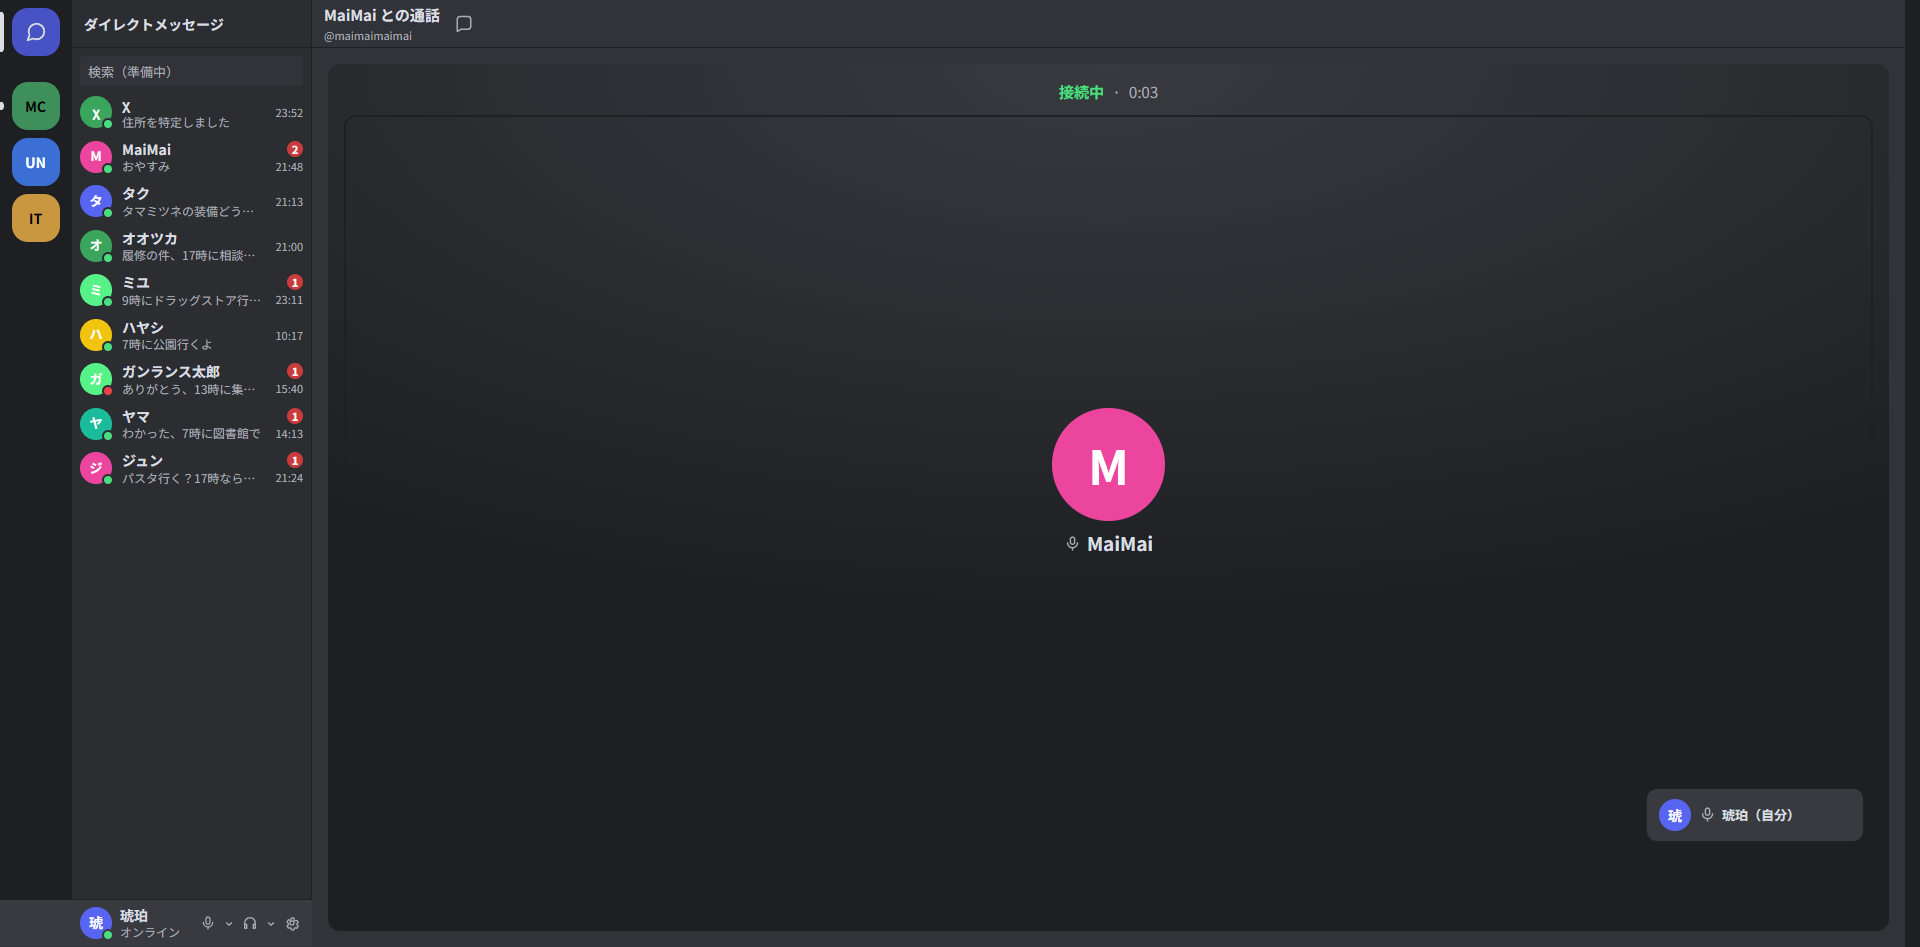
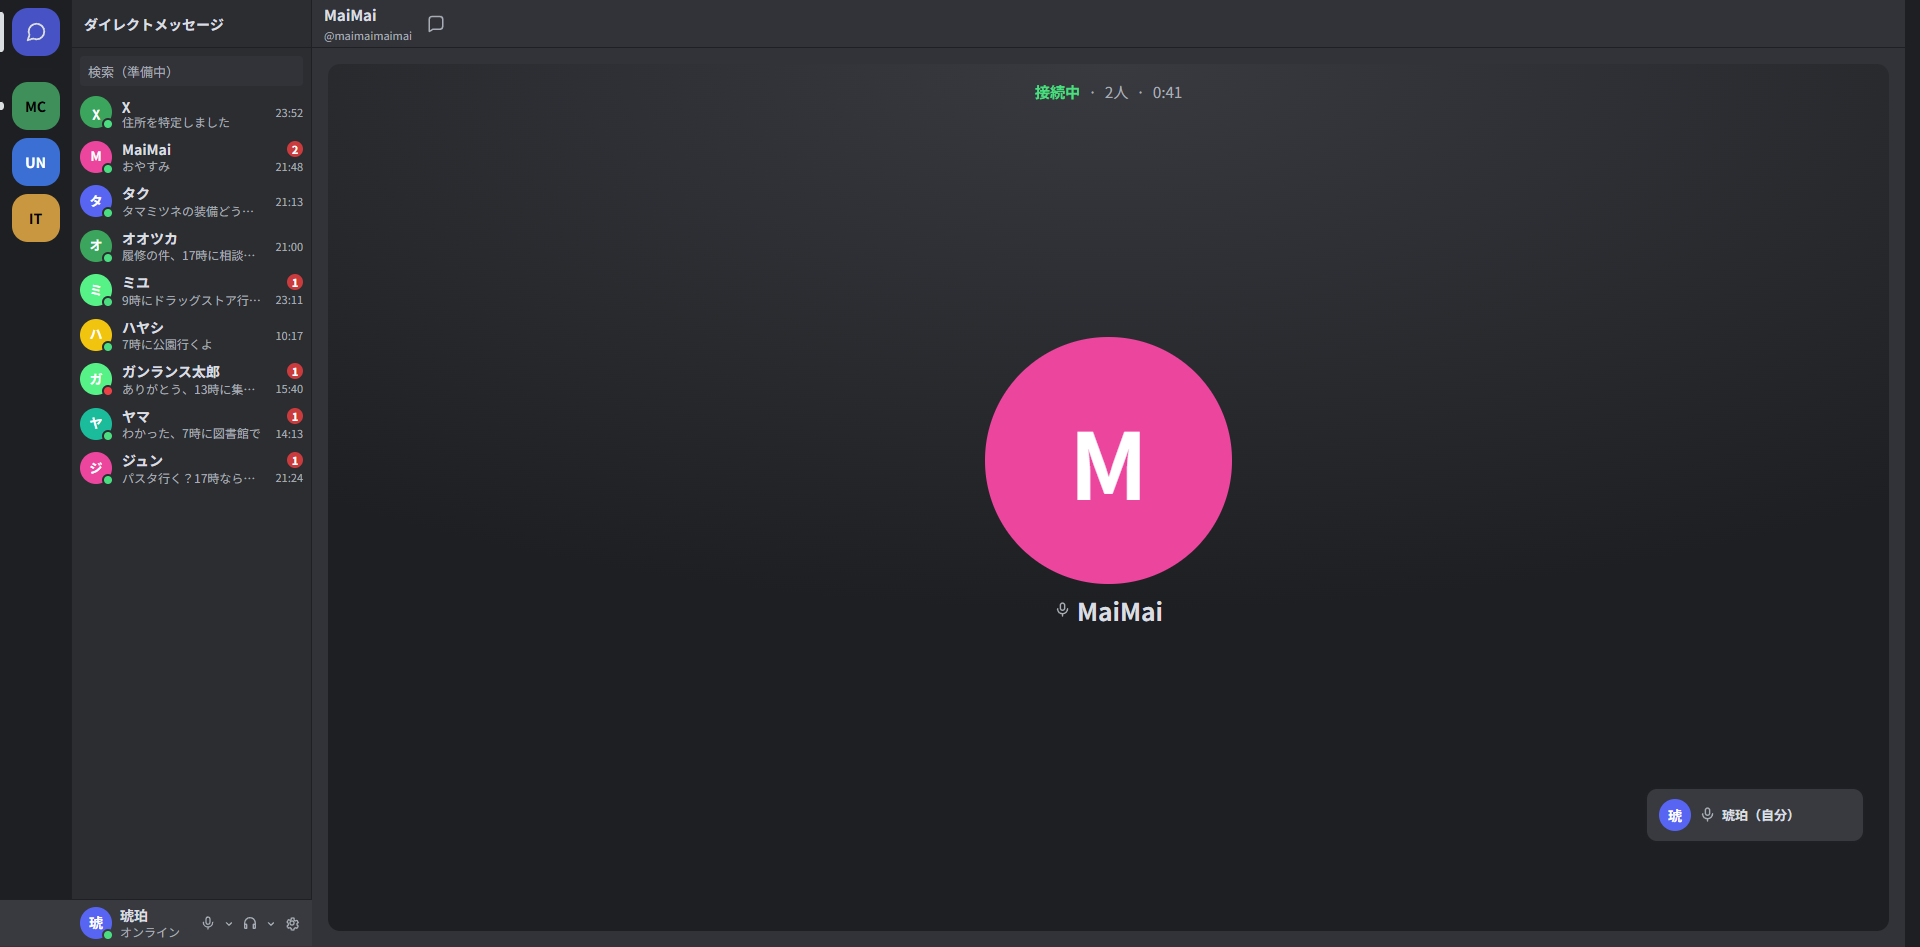
fix(voice): VC3人のグリッド・DMアバター・発話枠・左リスト・/call警告を直す
- 3人は同サイズ3列（span 2 を廃止）。4人=2×2、5〜6人=3列
- DMは相手アバターを clamp(160px,26vh,260px) に拡大し、余白を詰める
- DMヘッダーは名前だけ、中央は「状態・人数・タイマー」の1行（見出しの重複を解消）
- 発話枠は話者のタイルに2pxのアクセントだけ（太い外側グローを廃止）
- VC左の参加者リストは名前＋マイクだけのコンパクト表示
- /call に instant=false を置き、params outside Suspense の警告を消す
- スクショ（after）を更新

Changed region(s): [[0.5, 0.3369, 0.6562, 0.6737], [0.5312, 0.0919, 0.625, 0.1225], [0.1875, 0.0, 0.25, 0.0306]]

diff --git a/app/globals.css b/app/globals.css
@@ -511,10 +511,15 @@
   padding: 2px 0 4px 24px;
 }
 
+.voice-member-mic {
+  flex: none;
+  color: var(--color-text-muted);
+}
+
 .voice-member {
   display: flex;
   align-items: center;
-  gap: 8px;
+  gap: 6px;
   /* 行の高さで間隔を作る（アバター24px + 上下4px）。行間 gap は 2px のまま */
   min-height: 32px;
   color: var(--color-text-muted);
@@ -1185,10 +1190,6 @@
   grid-template-columns: repeat(2, minmax(0, 1fr));
 }
 
-.call-tiles[data-count="3"] .call-tile:first-child {
-  grid-row: span 2;
-}
-
 .call-tile {
   display: flex;
   flex-direction: column;
@@ -1218,7 +1219,20 @@
 
 .call-tiles[data-layout="dm"] .call-tile:first-child {
   width: 100%;
-  min-height: 180px;
+  min-height: 0;
+  padding: 8px;
+  border: 0;
+  background-color: transparent;
+}
+
+.call-tiles[data-layout="dm"] .call-tile:first-child .call-tile-avatar {
+  width: clamp(160px, 26vh, 260px);
+  height: clamp(160px, 26vh, 260px);
+  font-size: clamp(56px, 10vh, 92px);
+}
+
+.call-tiles[data-layout="dm"] .call-tile:first-child .call-tile-name {
+  font-size: clamp(18px, 2.6vh, 26px);
 }
 
 .call-tiles[data-layout="dm"] .call-tile:nth-child(2) {
@@ -6727,6 +6741,9 @@ a.tw-dm-item:focus-visible {
 .call-tiles[data-layout="grid"] {
   grid-template-columns: repeat(2, minmax(0, 1fr));
 }
+.call-tiles[data-layout="grid"][data-count="3"] {
+  grid-template-columns: repeat(3, minmax(0, 1fr));
+}
 .call-tiles[data-layout="grid"][data-count="1"] {
   grid-template-columns: minmax(0, 1fr);
 }
@@ -6738,17 +6755,17 @@ a.tw-dm-item:focus-visible {
 /* 発話: 緑の枠＋控えめなパルス（動きを減らす設定では止める） */
 .call-tile[data-speaking="true"] {
   border-color: var(--color-status-online);
-  box-shadow: 0 0 0 3px color-mix(in srgb, var(--color-status-online) 30%, transparent);
+  box-shadow: 0 0 0 2px color-mix(in srgb, var(--color-status-online) 45%, transparent);
   animation: call-pulse 1.8s ease-in-out infinite;
 }
 
 @keyframes call-pulse {
   0%,
   100% {
-    box-shadow: 0 0 0 3px color-mix(in srgb, var(--color-status-online) 22%, transparent);
+    box-shadow: 0 0 0 2px color-mix(in srgb, var(--color-status-online) 35%, transparent);
   }
   50% {
-    box-shadow: 0 0 0 6px color-mix(in srgb, var(--color-status-online) 14%, transparent);
+    box-shadow: 0 0 0 2px color-mix(in srgb, var(--color-status-online) 60%, transparent);
   }
 }
 

diff --git a/components/discord-like/channel-tree.tsx b/components/discord-like/channel-tree.tsx
@@ -107,11 +107,23 @@ export function ChannelTree({
                         <ul className="voice-members" aria-label={`${channel.name} の参加者`}>
                           {shown.participants.map((participant) => (
                             <li key={participant.id} className="voice-member">
-                              <span
+                              {/* 中央のタイルが主役。左は名前とマイクだけのコンパクト表示 */}
+                              <svg
                                 aria-hidden="true"
-                                className="voice-avatar"
-                                style={{ backgroundColor: participant.avatarColor }}
-                              />
+                                viewBox="0 0 24 24"
+                                width="12"
+                                height="12"
+                                fill="none"
+                                stroke="currentColor"
+                                strokeWidth="2"
+                                strokeLinecap="round"
+                                strokeLinejoin="round"
+                                className="voice-member-mic"
+                              >
+                                <rect x="9" y="3" width="6" height="10" rx="3" />
+                                <path d="M5 11a7 7 0 0 0 14 0" />
+                                <path d="M12 18v3" />
+                              </svg>
                               <span className="truncate">{participant.displayName}</span>
                             </li>
                           ))}

diff --git a/app/(discord-like)/_components/dm-call-view.test.tsx b/app/(discord-like)/_components/dm-call-view.test.tsx
@@ -55,7 +55,7 @@ describe("DM の通話画面（#137）", () => {
   it("相手と自分の2人を出し、相手を大きく・自分を小窓に置く", async () => {
     const { container } = render(view());
     const main = await screen.findByRole("main", { name: "MaiMai との通話" });
-    expect(within(main).getByText("MaiMai")).toBeInTheDocument();
+    expect(within(main).getAllByText("MaiMai").length).toBeGreaterThan(0);
     expect(within(main).getByText("琥珀（自分）")).toBeInTheDocument();
     // 呼び出し中→接続は非同期（effect）なので、接続まで待つ
     await waitFor(() =>

diff --git a/app/(discord-like)/[app]/channels/[guildId]/[channelId]/call/page.tsx b/app/(discord-like)/[app]/channels/[guildId]/[channelId]/call/page.tsx
@@ -5,6 +5,9 @@ import { SELF_USER_ID } from "@/app/(discord-like)/_components/self-user";
 import { getDMThread, getUser } from "@/lib/discord-like";
 import { resolveDmCallRoute } from "@/lib/discord-like/route-resolution";
 
+// params をこの区画で読むため、PPR のブロックを許可する（/call の警告を消す）
+export const instant = false;
+
 export const metadata: Metadata = {
   title: "通話",
   // 通話画面は検索に載せない

diff --git a/app/(discord-like)/_components/dm-call-view.tsx b/app/(discord-like)/_components/dm-call-view.tsx
@@ -83,7 +83,7 @@ export function DmCallView({
       <header className="pane-header voice-header">
         <PaneToggles />
         <div className="voice-header-text">
-          <h1 className="voice-header-title">{other.displayName} との通話</h1>
+          <h1 className="voice-header-title">{other.displayName}</h1>
           {otherHandle ? <p className="voice-header-handle">@{otherHandle}</p> : null}
         </div>
         <Link

diff --git a/app/(discord-like)/_components/call-stage.tsx b/app/(discord-like)/_components/call-stage.tsx
@@ -336,6 +336,8 @@ export function CallStage({
                   : STATUS_LABELS.idle}
             </span>
             <span aria-hidden="true">·</span>
+            <span className="call-stage-count">{shown.length}人</span>
+            <span aria-hidden="true">·</span>
             <span className="call-stage-timer">
               <span className="sr-only">通話時間 </span>
               {elapsed}
